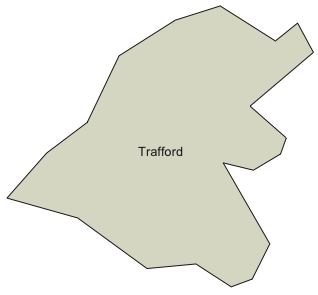
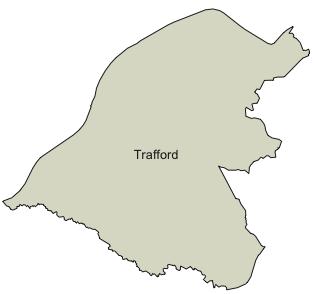
Changed example

diff --git a/rfunctions/boundaries/README.md b/rfunctions/boundaries/README.md
@@ -28,15 +28,15 @@ text(bdy$lon, y = bdy$lat, bdy$lad18nm, cex = 0.8, col = "#212121")
 
 ![](img/local_authority.png)
 
-##### Vector boundaries of Clifford and Longford wards
+##### Vector boundaries of Greater Manchester local authorities
 
 ```r
-bdy <- get_vector("Administrative_Boundaries/Wards_May_2018_Boundaries", "wd18cd LIKE 'E05000825' OR wd18cd LIKE 'E05000832'", resolution = 2)
+bdy <- get_vector("Administrative_Boundaries/Local_Authority_Districts_DEC_2018_Boundaries", "lad18nm IN ('Bolton','Bury','Manchester','Oldham','Rochdale','Salford','Stockport','Tameside','Trafford','Wigan')", resolution = 2)
 plot(st_geometry(bdy), col = "#DDDDCC", border = "#212121")
-text(bdy$lon, y = bdy$lat, bdy$wd18nm, cex = 0.8, col = "#212121")
+text(bdy$lon, y = bdy$lat, bdy$lad18nm, cex = 0.8, col = "#212121")
 ```
 
-![](img/wards.png)
+![](img/gm.png)
 
 ##### Latest postcode centroids for Clifford ward
 
@@ -44,7 +44,7 @@ text(bdy$lon, y = bdy$lat, bdy$wd18nm, cex = 0.8, col = "#212121")
 bdy <- get_vector("Administrative_Boundaries/Wards_May_2018_Boundaries", "wd18cd LIKE 'E05000825'", resolution = 2)
 postcodes <- get_vector("Postcodes/ONS_Postcode_Directory_Latest_Centroids", "osward LIKE 'E05000825'")
 plot(st_geometry(bdy), col = "#DDDDCC", border = "#212121")
-plot(st_geometry(postcodes), add = T, pch = 21, cex = 0.7, bg = "#fc6721", col = "#FFFFFF")
+plot(st_geometry(postcodes), add = T, pch = 21, cex = 0.7, bg = "#3182bd", col = "#FFFFFF")
 ```
 
 ![](img/postcodes.png)
